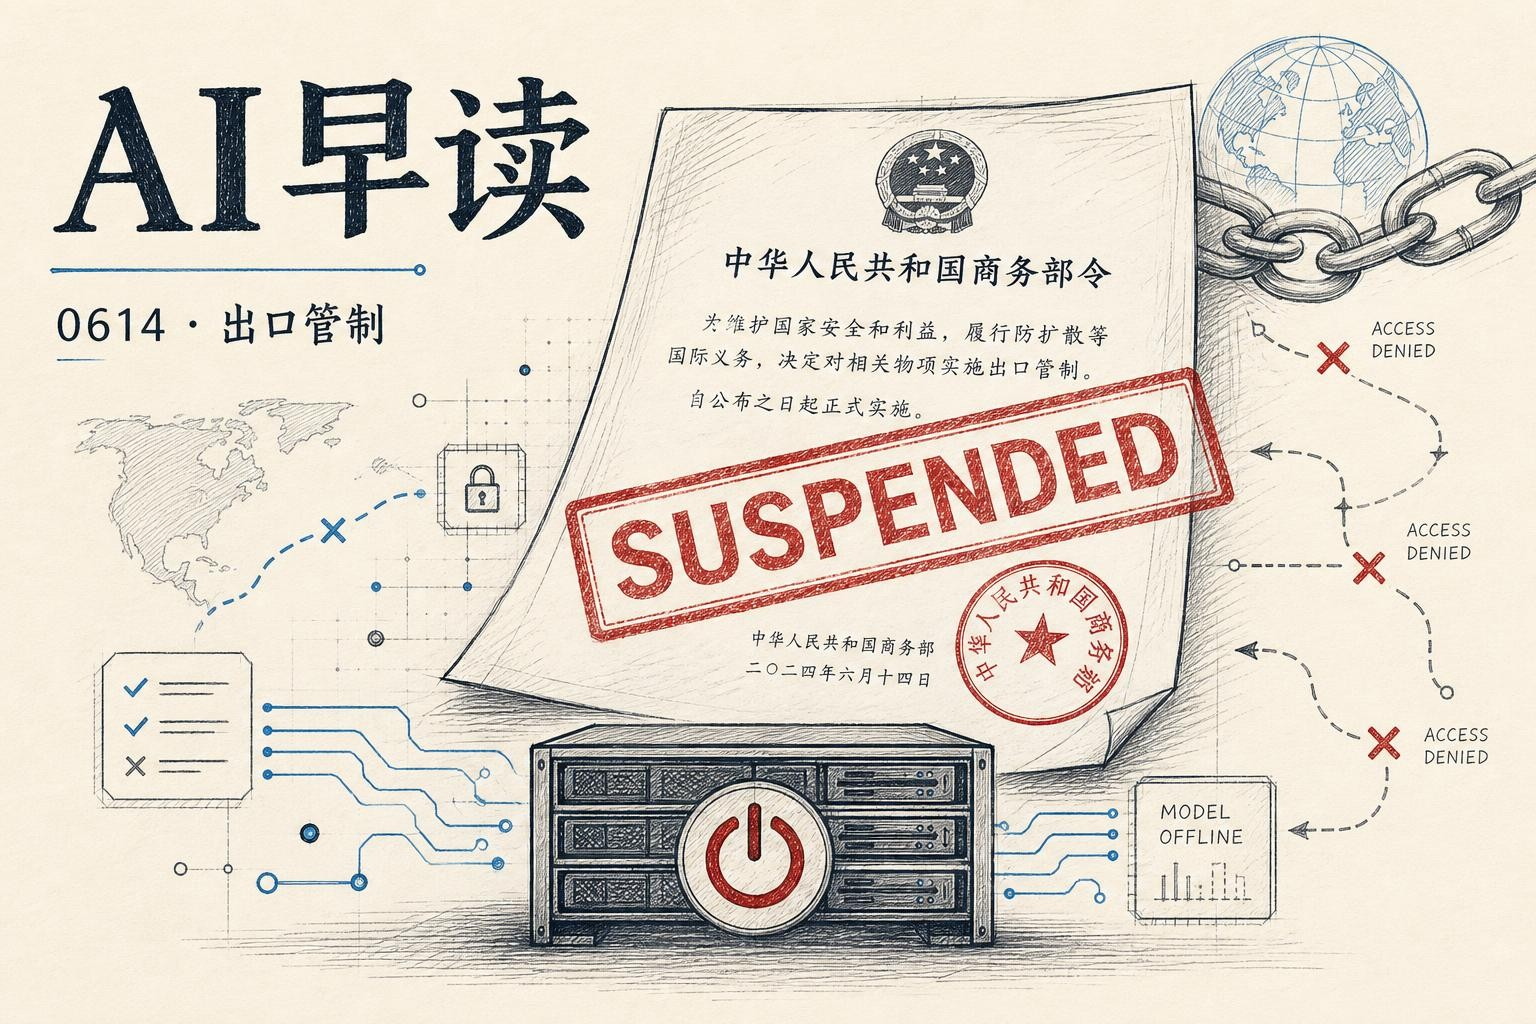
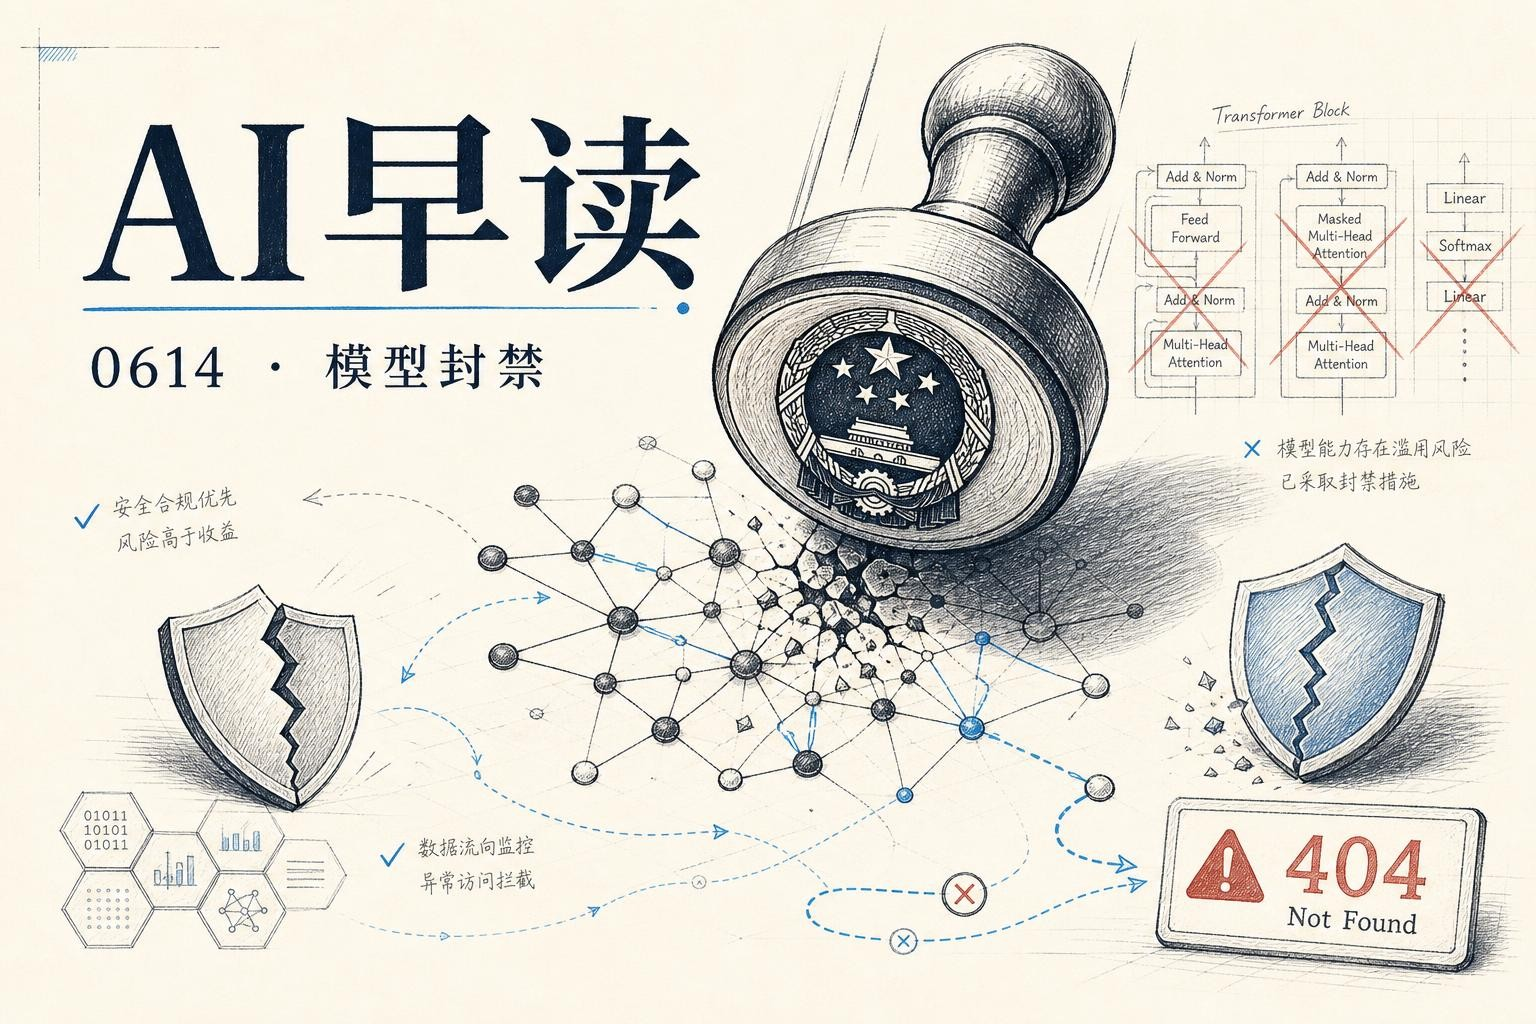
ai daily 2026-06-14

diff --git a/ai-daily-2026-06-14.md b/ai-daily-2026-06-14.md
@@ -1,47 +1,69 @@
 ---
-title: "【AI早读 0614】美国政府突令停用 Claude Fable 5"
+title: "【AI早读 0614】美国政府紧急封禁 Anthropic 最强模型"
 date: 2026-06-14
-tags: [Fable 5, 出口管制, AI安全, Anthropic, 政府监管]
+tags: [Fable 5, 出口管制, AI安全, Anthropic, SkillOpt, GLM 5.2, 模型封禁]
 ---
 
 ![cover](images/ai-daily-2026-06-14.jpg)
 
-## 美国政府援引国安法，突令封禁 Fable 5 和 Mythos 5
+## 美国政府援引国安令，紧急封禁 Fable 5 和 Mythos 5
 
-6 月 12 日下午，Anthropic 收到美国政府的出口管制指令，要求立即暂停所有外国国民对 `Fable 5` 和 `Mythos 5` 的访问权限 - 包括 Anthropic 内部的外国籍员工。指令援引国家安全权力，未给出具体的国家安全关切细节。Anthropic 随后对全球用户关闭了这两个模型。
+6 月 12 日下午，Anthropic 收到美国政府出口管制指令，要求立即暂停所有外国国民对 `Fable 5` 和 `Mythos 5` 的访问权限 - 包括 Anthropic 内部的外国籍员工。指令援引国家安全权力，未给出具体细节。Anthropic 随后对全球用户关闭了这两个最强模型。
 
-Anthropic 当天晚些时候发布声明，表示对这项指令持不同意见。声明指出，政府认为发现了一种绕过 Fable 5 安全防护的方法（即“越狱”），但 Anthropic 评估后认为，这个所谓的越狱手段只能发现少量已知的、轻微的漏洞，且其他公开模型无需越狱就能发现同样的问题。Anthropic 还强调，Fable 5 在发布前经过了数千小时的红队测试，其安全防护效果是迄今所有已部署模型中最强的，且目前没有任何测试者找到过通用越狱方法。
+Anthropic 在声明中表示不认同这项指令。政府声称发现了一种绕过 Fable 5 安全防护的“越狱”方法，但 Anthropic 评估后认为，这个所谓的越狱手段只能发现少量已知的轻微漏洞，且其他公开模型无需绕过就能发现同样的问题。声明还指出，Fable 5 在发布前通过了数千小时的红队测试，其安全防护是迄今已部署模型中最强的，没有任何测试者找到过通用越狱方法。
+
+WSJ 和 TechCrunch 的后续报道揭示了一个关键背景：Amazon CEO Andy Jassy 向财长 Scott Bessent 等政府官员汇报，称 Amazon 的研究人员用 `Claude Fable 5` 获取了可用于网络攻击的信息。这可能是触发出口管制的直接原因。Amazon 回应称“政府经常就潜在安全风险征求我们的意见”，但否认主动要求封禁。
 
 链接：[Statement on the US government directive to suspend access to Fable 5 and Mythos 5](https://www.anthropic.com/news/fable-mythos-access)
 
-Simon Willison 在博客中记录了这个过程。他编写了一个脚本来探测 API 访问状态，观测到自己的 Fable 5 访问权限在北京时间 6 月 13 日上午约 10:59（美西时间 6:59pm）被正式切断，API 返回 `404 not_found_error`，提示“Claude Fable 5 is not available”。
+链接：[Amazon CEO reportedly raised Anthropic model concerns before government crackdown](https://techcrunch.com/2026/06/13/amazon-ceo-reportedly-raised-anthropic-model-concerns-before-government-crackdown/)
+
+Simon Willison 记录了切断过程：他编写脚本轮询 API，发现自己的 Fable 5 权限在 6 月 12 日美西时间 6:59pm 正式切断，API 返回 404，提示“Claude Fable 5 is not available”。
 
 链接：[Statement on the US government directive to suspend access to Fable 5 and Mythos 5](https://simonwillison.net/2026/Jun/13/us-government-directive-to-suspend-access/#atom-everything)
 
-Anthropic 在声明中表示，如果这个标准被应用到全行业，实际上将停止所有前沿模型的新部署。公司承诺正在与政府沟通，争取尽快恢复访问。
+Anthropic 在声明末尾警告，如果这个标准被应用到全行业，实际上将停止所有前沿模型的新部署。
 
-## OpenAI WebRTC 语音会话，现在支持文档上下文
+## Microsoft SkillOpt：用 Markdown 文件当模型权重来训练
 
-Simon Willison 更新了他的 `openai-webrtc` 浏览器工具。新版本支持使用 GPT-Realtime-2 模型 - OpenAI 称之为“首个具备 GPT-5 级别推理能力的语音模型”。最实用的更新是：现在可以在浏览器中粘贴大量文档内容，然后通过语音与 AI 讨论这些信息。
+Microsoft 联合三所中国高校发表了一篇名为 SkillOpt 的研究，展示了一种极简的模型优化思路：把一份 Markdown 格式的指令文档（他们称为“skill”）当作模型参数一样去迭代优化，最终让 GPT-5.5 在程序化任务上提升了超过 20 个百分点。
+
+链接：[Microsoft's SkillOpt boosts GPT-5.5 by using nothing but a trained Markdown file](https://the-decoder.com/microsofts-skillopt-boosts-gpt-5-5-by-using-nothing-but-a-trained-markdown-file/)
+
+Skill 这个概念不新鲜 - Anthropic 去年就给 Claude 加了模块化 skill 系统，会自动加载特定任务的指令、脚本和资源。但 SkillOpt 的关键区别在于，它不再靠手工或单次生成来写 skill，而是引入了一个独立的语言模型作为优化器，记录 agent 运行日志后识别错误和成功模式，然后对 skill 做编辑增删。每次修改只有通过验证集的性能检验才会被保留。
+
+作者把深度学习概念映射到了文本层面：每步限制可编辑的段落数量作为学习率，调度器按 epoch 缩小步长，被拒绝的编辑进入缓存作为负面样本，epoch 末的慢更新保留稳定的编辑方向 - 和梯度平滑如出一辙。一个参数不调，只调 prompt。
+
+## KPMG 因幻觉撤回自己的 AI 报告
+
+咨询巨头 KPMG 撤回了 2025 年 10 月发布的报告《Redefining Excellence in the Age of Agentic AI》，原因是多家被调研机构声称报告中关于它们的 AI 使用情况不实。GPTZero 研究团队指出，不准确信息来源于 AI 幻觉，且 KPMG 很可能用 AI 辅助撰写了一份关于 AI 的行业报告。
+
+链接：[KPMG pulls report on AI usage due to apparent hallucinations](https://techcrunch.com/2026/06/13/kpmg-pulls-report-on-ai-usage-due-to-apparent-hallucinations/)
+
+UBS、英国 NHS、瑞士联邦铁路和伦敦交通局均向 FT 表示报告中的声明不实或误导。KPMG 发言人回应称已启动内部调查，强调“要求所有员工遵循负责任使用 AI 的准则，包括人工审查内容和验证独立来源”。上个月 EY 也因报告包含虚假脚注而撤回了一份关于忠诚度计划的报告 - 四大咨询机构在 AI 议题上的信任危机正在蔓延。
+
+## GLM 5.2 发布，下周开源权重
+
+智谱 AI 发布了 GLM 5.2，并在社交平台表示下周将开放 MIT 许可证的权重。在社区测试中，GLM 5.2 的表现存在分歧：Reddit 上有用户认为其在 Pac-Man 测试中表现不错，也有用户对 5.2 Air 版本的成绩表示疑虑，认为可能还有 Flash 版本会在后续放出。
+
+链接：[GLM 5.2 Is Out](https://twitter.com/jietang/status/2065784751345287314)
+
+## Kimi K2.7 Code 以 12 倍价格优势对标 GPT-5.5 和 Claude
+
+Moonshot 开源了 Kimi K2.7 Code，定位是性价比极高的代码模型。The Decoder 报道称其每 token 成本比 GPT-5.5 和 Claude 低最多 12 倍，Unsloth 已经发布了 GGUF 量化版本供本地运行。
+
+链接：[Moonshot's open model Kimi K2.7 Code undercuts GPT-5.5 and Claude by up to 12x on price per token](https://the-decoder.com/moonshots-open-model-kimi-k2-7-code-undercuts-gpt-5-5-and-claude-by-up-to-12x-on-price-per-token/)
+
+## OpenAI WebRTC 语音会话支持文档上下文
+
+Simon Willison 更新了 `openai-webrtc` 浏览器工具，新增对 GPT-Realtime-2 模型的支持 - OpenAI 称其为“首个具备 GPT-5 级别推理能力的语音模型”。新版本允许用户在浏览器中粘贴大量文档内容，然后通过语音与模型讨论这些信息，把语音交互从简单的对话扩展到了文档分析场景。
 
 链接：[OpenAI WebRTC Audio Session, now with document context](https://simonwillison.net/2026/Jun/12/openai-webrtc/#atom-everything)
 
-这个工具的初始版本 2024 年 12 月就发布了，当时主要用于尝试 OpenAI 的 WebRTC 实时音频 API。GPT-Realtime-2 的上个月发布是这次更新的主要驱动力 - 与旧模型相比，2024 年 9 月的知识截止日期意味着它能回答更多近期问题。
+## 其他值得关注的动态
 
-## Gemini 的安全属性主要来自 SFT
+Google DeepMind 的语言模型可解释性团队在 AI Alignment Forum 发表研究，发现 Gemini 的安全相关属性主要来自 SFT（监督微调），而非 RL 或其他阶段 - SFT-only 模型和生产版本在所有安全基准上高度重合，包括对齐评估、过度拒绝率和不安全响应率。
 
-Google DeepMind 语言模型可解释性团队在 AI Alignment Forum 发表了一篇简短的研报，发现了一个出乎意料的结果：Gemini 的安全相关属性，大部分是由预训练加 SFT（监督微调）带来的，而不是 RL（强化学习）或其他训练阶段。
-
-链接：[SFT Drives Gemini's Safety Properties](https://www.alignmentforum.org/posts/nLrrYweeFxgXACSmS/sft-drives-gemini-s-safety-properties-1)
-
-团队对 Gemini 3.1 Pro 和 Gemini 3 Flash 的预训练版本进行了 SFT，然后与生产版本在多个安全基准上做了对比。结果令人吃惊：SFT-only 模型和生产模型的表现在几乎所有评估中都高度重合，包括对齐评估、过度拒绝率、不安全响应率、奖励黑客行为等指标。这意味着对于 Gemini 系列而言，SFT 是一个非常高效的安全干预点。
-
-## Vercel Workflow SDK 原生集成 Nitro v3
-
-Vercel 宣布 Workflow SDK 的 Nitro v3 原生集成进入 Beta 阶段。workflow 步骤不再需要独立打包，而是与应用的其余部分在同一运行时中执行。Nitro 的 `useStorage()` 等服务端 API 可以在 `"use step"` 函数中直接调用，开发时还可以在 `/_workflow` 路径下使用工作流可视化界面。
-
-链接：[Workflow SDK now runs natively in Nitro v3](https://vercel.com/changelog/workflow-sdk-now-runs-natively-in-nitro-v3)
-
-依赖追踪和 tree-shaking 也让构建产物更小。对已经在用 Nitro 的团队来说，这个集成省掉了不少额外配置工作。
+Google Research 的 `Gemini-SQL2` 在 text-to-SQL 基准测试中大幅领先。Claude Fable 5 在被封禁前刚被报道在 FrontierMath 最难问题上超过 GPT-5.5 达 13 个百分点。OpenAI 也面临来自美国各州总检察长的调查。微软 CEO Satya Nadella 在采访中承认自己也是个“token maxer”，表示“这东西上瘾”。
 
 *来源：VerySmallWoods Research Feed - 2026-06-14 UTC*

diff --git a/images/prompts/ai-daily-2026-06-14.md b/images/prompts/ai-daily-2026-06-14.md
@@ -1,0 +1,38 @@
+# Cover Image Prompt - AI Daily 2026-06-14
+
+## Topic: 美国政府封禁Anthropic Fable 5与Mythos 5
+
+Prompt:
+```
+Create an elegant hand-drawn editorial cover image for a Chinese AI daily article.
+Canvas: 3:2 landscape article cover, high resolution.
+Cover theme: model crackdown
+Style: modern clean tech, refined hand-drawn ink illustration, sophisticated newsletter cover, not corporate stock art.
+Title text: AI早读
+Subtitle text: 0614 · 模型封禁
+
+Visual composition:
+- Main visual: a large hand-drawn government seal / stamp descending onto a cluster of neural network nodes, casting a shadow.
+  A shield icon is cracked on one side. An API error "404" badge in the lower-right corner.
+  Small pencil-sketched wireframes of model architecture in the background - transformer blocks with X marks over them.
+- Layout: title text large and readable in the upper-left, subtitle smaller below it;
+  illustration occupies remainder of canvas with generous negative space.
+- Decorative elements: small pencil-sketch annotations, node dots, dashed arrows,
+  data-flow traces, a few small hexagonal data tiles.
+
+Color scheme:
+- Background: warm off-white paper (#F7F3EA)
+- Primary ink: deep charcoal / navy-black
+- Accent: restrained cyan blue used for checkmarks and active data paths.
+  Signal red used very sparingly for warning/error markers.
+- Secondary: muted graphite and pale steel blue for grid lines and shadow lines.
+
+Style notes:
+- Premium Chinese tech newsletter cover.
+- Hand-drawn but precise, like a research notebook meets systems architecture sketch.
+- Keep the image uncluttered and readable at thumbnail size.
+- Make all visible text crisp, legible, and exactly as specified:
+  "AI早读" and "0614 · 模型封禁".
+- No logos, no photorealistic people, no generic robot face,
+  no dark gradient background, no glowing neon effects.
+```
